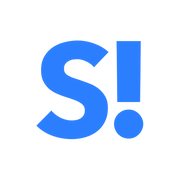
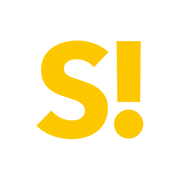
style: テーマを黄色に変え、アイコンを差し替える

Changed region(s): [[0.1944, 0.2222, 0.6111, 0.7778], [0.6111, 0.2222, 0.8056, 0.7778]]

diff --git a/src/index.css b/src/index.css
@@ -12,37 +12,37 @@
 
 :root {
   --background: oklch(1 0 0);
-  --foreground: oklch(0.148 0.004 228.8);
+  --foreground: oklch(0.147 0.004 49.3);
   --card: oklch(1 0 0);
-  --card-foreground: oklch(0.148 0.004 228.8);
+  --card-foreground: oklch(0.147 0.004 49.3);
   --popover: oklch(1 0 0);
-  --popover-foreground: oklch(0.148 0.004 228.8);
-  --primary: oklch(0.623 0.214 259.815);
-  --primary-foreground: oklch(0.97 0.014 254.604);
+  --popover-foreground: oklch(0.147 0.004 49.3);
+  --primary: oklch(0.852 0.199 91.936);
+  --primary-foreground: oklch(0.421 0.095 57.708);
   --secondary: oklch(0.967 0.001 286.375);
   --secondary-foreground: oklch(0.21 0.006 285.885);
-  --muted: oklch(0.963 0.002 197.1);
-  --muted-foreground: oklch(0.56 0.021 213.5);
-  --accent: oklch(0.963 0.002 197.1);
-  --accent-foreground: oklch(0.218 0.008 223.9);
+  --muted: oklch(0.96 0.002 17.2);
+  --muted-foreground: oklch(0.547 0.021 43.1);
+  --accent: oklch(0.96 0.002 17.2);
+  --accent-foreground: oklch(0.214 0.009 43.1);
   --destructive: oklch(0.577 0.245 27.325);
-  --border: oklch(0.56 0.021 213.5 / 40%);
-  --input: oklch(0.925 0.005 214.3);
-  --ring: oklch(0.723 0.014 214.4);
-  --chart-1: oklch(0.809 0.105 251.813);
-  --chart-2: oklch(0.623 0.214 259.815);
-  --chart-3: oklch(0.546 0.245 262.881);
-  --chart-4: oklch(0.488 0.243 264.376);
-  --chart-5: oklch(0.424 0.199 265.638);
-  --radius: 0.875rem;
-  --sidebar: oklch(0.987 0.002 197.1);
-  --sidebar-foreground: oklch(0.148 0.004 228.8);
-  --sidebar-primary: oklch(0.623 0.214 259.815);
-  --sidebar-primary-foreground: oklch(0.97 0.014 254.604);
-  --sidebar-accent: oklch(0.963 0.002 197.1);
-  --sidebar-accent-foreground: oklch(0.218 0.008 223.9);
-  --sidebar-border: oklch(0.925 0.005 214.3);
-  --sidebar-ring: oklch(0.723 0.014 214.4);
+  --border: oklch(0.922 0.005 34.3);
+  --input: oklch(0.922 0.005 34.3);
+  --ring: oklch(0.714 0.014 41.2);
+  --chart-1: oklch(0.905 0.182 98.111);
+  --chart-2: oklch(0.795 0.184 86.047);
+  --chart-3: oklch(0.681 0.162 75.834);
+  --chart-4: oklch(0.554 0.135 66.442);
+  --chart-5: oklch(0.476 0.114 61.907);
+  --radius: 0.625rem;
+  --sidebar: oklch(0.986 0.002 67.8);
+  --sidebar-foreground: oklch(0.147 0.004 49.3);
+  --sidebar-primary: oklch(0.681 0.162 75.834);
+  --sidebar-primary-foreground: oklch(0.987 0.026 102.212);
+  --sidebar-accent: oklch(0.96 0.002 17.2);
+  --sidebar-accent-foreground: oklch(0.214 0.009 43.1);
+  --sidebar-border: oklch(0.922 0.005 34.3);
+  --sidebar-ring: oklch(0.714 0.014 41.2);
   /*
    * 画面下に固定するボトムメニューの高さ(ホームインジケーターの領域を含む)。
    * 片付けの予告や「追加」「買い物リストに登録」のボタンは、この高さを基準にメニューの上へ置く。
@@ -66,37 +66,37 @@
 }
 
 .dark {
-  --background: oklch(0.148 0.004 228.8);
-  --foreground: oklch(0.987 0.002 197.1);
-  --card: oklch(0.218 0.008 223.9);
-  --card-foreground: oklch(0.987 0.002 197.1);
-  --popover: oklch(0.218 0.008 223.9);
-  --popover-foreground: oklch(0.987 0.002 197.1);
-  --primary: oklch(0.623 0.214 259.815);
-  --primary-foreground: oklch(0.97 0.014 254.604);
+  --background: oklch(0.147 0.004 49.3);
+  --foreground: oklch(0.986 0.002 67.8);
+  --card: oklch(0.214 0.009 43.1);
+  --card-foreground: oklch(0.986 0.002 67.8);
+  --popover: oklch(0.214 0.009 43.1);
+  --popover-foreground: oklch(0.986 0.002 67.8);
+  --primary: oklch(0.795 0.184 86.047);
+  --primary-foreground: oklch(0.421 0.095 57.708);
   --secondary: oklch(0.274 0.006 286.033);
   --secondary-foreground: oklch(0.985 0 0);
-  --muted: oklch(0.275 0.011 216.9);
-  --muted-foreground: oklch(0.723 0.014 214.4);
-  --accent: oklch(0.275 0.011 216.9);
-  --accent-foreground: oklch(0.987 0.002 197.1);
+  --muted: oklch(0.268 0.011 36.5);
+  --muted-foreground: oklch(0.714 0.014 41.2);
+  --accent: oklch(0.268 0.011 36.5);
+  --accent-foreground: oklch(0.986 0.002 67.8);
   --destructive: oklch(0.704 0.191 22.216);
-  --border: oklch(0.723 0.014 214.4 / 40%);
-  --input: oklch(1 0 0 / 15%);
-  --ring: oklch(0.56 0.021 213.5);
-  --chart-1: oklch(0.809 0.105 251.813);
-  --chart-2: oklch(0.623 0.214 259.815);
-  --chart-3: oklch(0.546 0.245 262.881);
-  --chart-4: oklch(0.488 0.243 264.376);
-  --chart-5: oklch(0.424 0.199 265.638);
-  --sidebar: oklch(0.218 0.008 223.9);
-  --sidebar-foreground: oklch(0.987 0.002 197.1);
-  --sidebar-primary: oklch(0.623 0.214 259.815);
-  --sidebar-primary-foreground: oklch(0.97 0.014 254.604);
-  --sidebar-accent: oklch(0.275 0.011 216.9);
-  --sidebar-accent-foreground: oklch(0.987 0.002 197.1);
+  --border: oklch(1 0 0 / 20%);
+  --input: oklch(1 0 0 / 20%);
+  --ring: oklch(0.547 0.021 43.1);
+  --chart-1: oklch(0.905 0.182 98.111);
+  --chart-2: oklch(0.795 0.184 86.047);
+  --chart-3: oklch(0.681 0.162 75.834);
+  --chart-4: oklch(0.554 0.135 66.442);
+  --chart-5: oklch(0.476 0.114 61.907);
+  --sidebar: oklch(0.214 0.009 43.1);
+  --sidebar-foreground: oklch(0.986 0.002 67.8);
+  --sidebar-primary: oklch(0.795 0.184 86.047);
+  --sidebar-primary-foreground: oklch(0.987 0.026 102.212);
+  --sidebar-accent: oklch(0.268 0.011 36.5);
+  --sidebar-accent-foreground: oklch(0.986 0.002 67.8);
   --sidebar-border: oklch(1 0 0 / 10%);
-  --sidebar-ring: oklch(0.56 0.021 213.5);
+  --sidebar-ring: oklch(0.547 0.021 43.1);
 }
 
 @theme inline {

diff --git a/index.html b/index.html
@@ -7,7 +7,7 @@
       name="viewport"
       content="width=device-width, initial-scale=1.0, viewport-fit=cover"
     />
-    <meta name="theme-color" content="#2B7FFF" />
+    <meta name="theme-color" content="#FDC700" />
     <meta name="description" content="買い物リストを共有できるアプリ" />
     <link rel="apple-touch-icon" href="/apple-touch-icon.png" />
     <meta name="mobile-web-app-capable" content="yes" />

diff --git a/vite.config.ts b/vite.config.ts
@@ -21,7 +21,7 @@ export default defineConfig({
         short_name: 'SOUIEBA!',
         description: '買い物リストを共有できるアプリ',
         lang: 'ja',
-        theme_color: '#2B7FFF',
+        theme_color: '#FDC700',
         background_color: '#ffffff',
         display: 'standalone',
         icons: [
